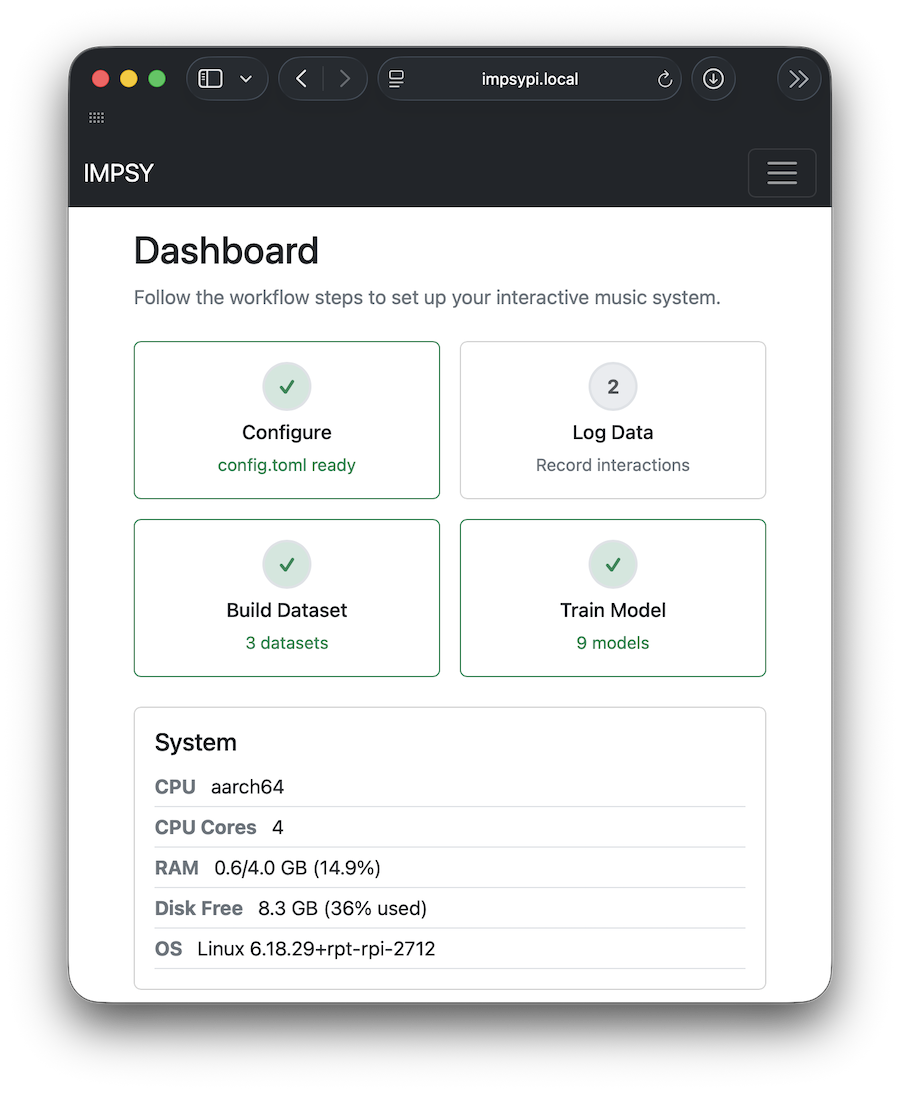
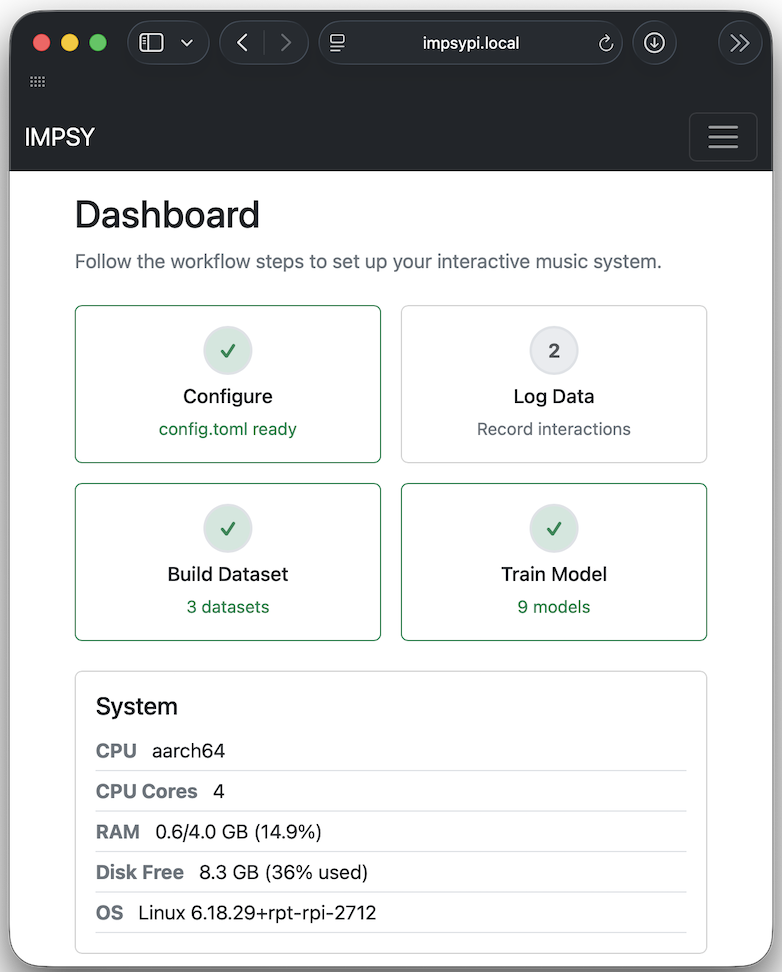
updates

diff --git a/opening-the-design-space.md b/opening-the-design-space.md
@@ -1,8 +1,8 @@
 ---
 title: "Opening the Design Space"
 subtitle: "Two Years of Performance with Intelligent Musical Instruments"
-author: Charles Patrick Martin — The Australian National University
-date: "NIME '26: London, June 2026"
+author: Charles Patrick Martin, The Australian National University
+date: "NIME2026"
 # Loaded here (not via pandoc --include-in-header) because a command-line
 # header-includes overrides this metadata field, which would silently drop the
 # beamer-background.lua filter's preamble. The Makefile adds the slides dir to
@@ -19,14 +19,14 @@ title-slide-attributes:
 ## Generative AI is all over music, but mostly not in instruments
 
 :::::::::::::: {.columns}
-::: {.column width="60%"}
+::: {.column width="50%"}
 
 - We're aware of the threats and concerns about _AI generated music_.
 - But few digital musical instruments integrate generative AI into *long-term musical practice* [@jourdan_nime_ml_review]
 - Many musical AI tools aren't artist-centred: hard to experiment with, embed, modify (exceptions: RAVE, Wekinator)
 
 :::
-::: {.column width="40%"}
+::: {.column width="50%"}
 ![](img/soundout2026-7.jpg)
 :::
 ::::::::::::::
@@ -34,7 +34,9 @@ title-slide-attributes:
 <!-- _Exceptions:_ RAVE, IML system (?), Wekinator. -->
 <!-- TODO links and cites for RAVE, iml, wekinator -->
 
-**Question:** what does the design space for intelligent musical instruments look like when *accessible and portable* AI is available for artistic exploration?
+**Question:** what does the design space for intelligent musical instruments look like when *approachable and portable* AI is available for artistic exploration?
+
+What can self-contained intelligent musical instruments look like?
 
 <!-- Another question, can genAI be integrated into portable, electronic music setups? -->
 
@@ -45,15 +47,15 @@ Hook: everyone is talking about generative AI music, but where are the instrumen
 ## What's an *intelligent* musical instrument?
 
 :::::::::::::: {.columns}
-::: {.column width="60%"}
+::: {.column width="50%"}
 
-- An instrument where an AI system **generates actions independently** of the musician's actions
+- Definition for this paper: An instrument where an AI system **generates actions independently** of the musician's actions
 - Includes Continuator [@Pachet:2003wd] and Voyager [@Lewis:2000fu]
 - Excludes mapping-only systems like Wekinator [@fiebrink_meta-instrument_2009]
 - This work takes a **small-data** approach [@Vigliensoni:2022]: artists collect, curate, train, and deploy their own AI
 
 :::
-::: {.column width="40%"}
+::: {.column width="50%"}
 ![](img/garage-concert-arturia.jpg)
 :::
 ::::::::::::::
@@ -67,7 +69,7 @@ The definition matters: AI acting independently, not just interpreting sensor da
 ## The platform: IMPSY 
 
 :::::::::::::: {.columns}
-::: {.column width="60%"}
+::: {.column width="40%"}
 
 - "Squeeze Generative AI into a MIDI Plug"
 - Python software + Raspberry Pi + custom OS image [@impsy_software_zenodo]
@@ -77,9 +79,9 @@ The definition matters: AI acting independently, not just interpreting sensor da
 **Howto:** Flash an SD card, configure in a web browser, plug in and play.
 
 :::
-::: {.column width="40%"}
+::: {.column width="60%"}
 
-![](img/gen-ai-system-diagram.png)
+![](img/gen-ai-system-diagram-light-on-dark.png)
 
 :::
 ::::::::::::::
@@ -88,10 +90,11 @@ The definition matters: AI acting independently, not just interpreting sensor da
 The platform is deliberately minimal: it doesn't produce audio, it controls other instruments. That's what lets it retrofit existing synths and DAWs. Pre-installed OS image means no Python wrangling for users, boot and go.
 :::
 
-## The AI model: small but musical
+## AI model: mixture density recurrent neural network (MDRNN)
 
 - Mixture density recurrent neural network (MDRNN) [@Martin2019]
 - Generates tuples: 1–8 musical values **plus a time delta** (free rhythm, no grid)
+- Created to model embodied musical data, e.g., turning knobs on synth
 - Typical model: 2 layers of 64 LSTM units. *Tiny* by genAI standards
 - Trains in **under 30 minutes** on a normal laptop, from artist-collected data
 
@@ -99,17 +102,19 @@ The platform is deliberately minimal: it doesn't produce audio, it controls othe
 
 ::::::::::::::{.columns}
 
-:::{.column width="55%"}
+:::{.column width="50%"}
 
 - IMPSY runs on any 64-bit Raspberry Pi, including the **Zero 2 W (15 USD)**, small enough to hide inside an instrument
 - MIDI via USB interface, direct USB-MIDI, or two resistors on the UART pins
 - Web interface for mappings, logged data, and model upload
 
+![](img/impsy-web-interface-2026.png){width="40%" style="display: block; margin: 0 auto;"}
+
 :::
 
-:::{.column width="45%"}
+:::{.column width="50%"}
 
-![](img/impsy-web-interface-2026.png)
+![Generative AI in a MIDI plug](img/rpi-zero-midi-plug.jpg)
 
 :::
 
@@ -127,7 +132,7 @@ The platform is deliberately minimal: it doesn't produce audio, it controls othe
 Quantitative testing isn't the focus, but the headline is: even the cheapest Pi is comfortably inside the 10ms benchmark from earlier work. Boot time turned out to matter more than inference time in practice, it shapes how you trust a system at a gig.
 :::
 
-## Two years of performances with five instruments
+## Two years of performances, five instruments {background-image="img/soundout2026-7.jpg" background-opacity=0.5}
 
 - Autobiographical design: instruments built for **my own performance practice** and tested in real gigs
 - 15 performances and recordings (2024--2026); solo, duo, and group free improvisation
@@ -252,7 +257,7 @@ Multiple interfaces, one model. The mapping capability grew until the AI sat bet
 ## 1. (Re)mapping can replace retraining
 
 :::::::::::::: {.columns}
-::: {.column width="60%"}
+::: {.column width="50%"}
 
 - Changing how the model connects to controls and parameters opened new instruments *without touching the model*
 - Retraining costs minutes to hours (or days for audio models); remapping is instant
@@ -261,7 +266,7 @@ Multiple interfaces, one model. The mapping capability grew until the AI sat bet
 Remapping is sustainable and responsive design iteration.
 
 :::
-::: {.column width="40%"}
+::: {.column width="50%"}
 
 ![](img/s-1-midi-mapping-toml.jpg)
 
@@ -271,7 +276,7 @@ Remapping is sustainable and responsive design iteration.
 ## 2. Fast interleaving is a co-creative strategy
 
 :::::::::::::: {.columns}
-::: {.column width="60%"}
+::: {.column width="50%"}
 
 - 0.1 s switch-over between human and AI control: a new interaction approach
 - Not a separate "agent"; more like a **free-running process** you guide but don't fully control
@@ -280,7 +285,7 @@ Remapping is sustainable and responsive design iteration.
 **Musically productive and fun**
 
 :::
-::: {.column width="40%"}
+::: {.column width="50%"}
 ![](img/impsy-s-1-square.jpg)
 :::
 ::::::::::::::
@@ -288,14 +293,14 @@ Remapping is sustainable and responsive design iteration.
 ## 3. Small-data models are transportable components
 
 :::::::::::::: {.columns}
-::: {.column width="60%"}
+::: {.column width="40%"}
 
-- **One model**, trained once on my own data, served all five instruments
-- Like a trusted effects pedal: a design component you get to know over years
+- **One model**, trained once on my own data, used in the last four instruments
+- Like a *trusted effects pedal*: a design component you get to know over years
 - Challenges the assumption that AI needs unethically sourced data and unsustainable compute
 
 :::
-::: {.column width="40%"}
+::: {.column width="60%"}
 ![](img/intelligent-daw-aum-dhg.jpg)
 :::
 ::::::::::::::
@@ -303,25 +308,31 @@ Remapping is sustainable and responsive design iteration.
 ## 4. Cheap hardware lowers barriers
 
 :::::::::::::: {.columns}
-::: {.column width="60%"}
+::: {.column width="40%"}
 
 - Works on a 15 USD computer: multiple Pis for group performances, loans, dedicated instruments
 - MIDI lets you **retrofit existing instruments** rather than build new ones
 - Inclusion *and* sustainability: reuse what musicians already own
 
 :::
-::: {.column width="40%"}
+::: {.column width="60%"}
 
-![](img/rpi-zero-midi-plug.jpg)
+![](img/outside-1.jpg)
 
 :::
 ::::::::::::::
 
-## What's next? 
+## Conclusions { background-video="video/3-intelligent-s-1.mp4" background-video-loop="true" background-video-muted="true" background-size="cover" background-opacity=0.4}
 
-![](img/impsy-app-ableton.png){width=75%}
+- A platform for prototyping intelligent musical instruments that is cheap, small, and artist-centred
+- Five instruments, 15 performances, two years of practice
+- Insights to **keep opening** the design space remapping, interleaving, transportable models, accessible hardware
+- Next: model evolution over time, and co-design with other artists
 
-Make it an app! Stop using Raspberry Pis!
+**Please go make more intelligent musical instruments, I'd like to see and hear them!**
+
+## What's next? Make it an app! { background-video="video/7-impsy-ableton.mp4" background-video-loop="true" background-video-muted="true" background-size="cover" background-opacity=1}
+
 
 <!-- ## Available Now from the Apple App Store
 
@@ -331,19 +342,13 @@ Available for MacOS and iOS. Host App with MIDI I/O, AUv3 midi fx unit. -->
 
 ## IMPSY AUv3 {background-video="video/6-impsy-auv3.mp4" background-video-loop="true" background-size="cover"}
 
-## Conclusions
-
-- A platform for prototyping intelligent musical instruments that is cheap, small, and artist-centred
-- Five instruments, 15 performances, two years of practice
-- The design space is **still opening**: remapping, interleaving, transportable models, accessible hardware
-- Next: model evolution over time, and co-design with other artists
-
 ## Thanks!
 
 ::: {.questions}
 **Questions?**
 
-- Software: <https://github.com/cpmpercussion/impsy>
+- Homepage: <https://charlesmartin.au/impsy>
+- Try the web app! <https://charlesmartin.au/impsy-web/>
 - Videos: <https://doi.org/10.5281/zenodo.19550146>
 - [email redacted]
 :::